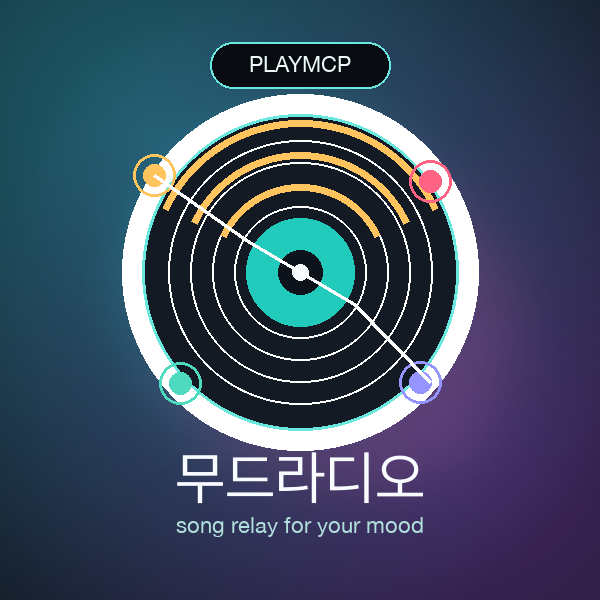
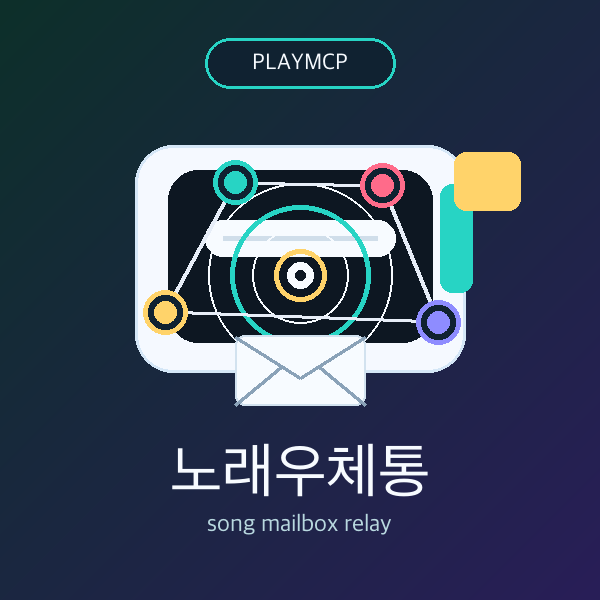
Enforce song mailbox relay flow

diff --git a/mood_radio_mcp/tools.py b/mood_radio_mcp/tools.py
@@ -43,7 +43,6 @@ def post_to_public_dict(post: SongPost) -> dict[str, object]:
         "post_id": post.id,
         "title": post.title,
         "artist": post.artist,
-        "mood": post.mood,
         "message": post.message,
         "from": post.nickname,
         "link": post.link,
@@ -152,8 +151,8 @@ class MoodRadioTools:
             "message": "노래우체통은 누군가의 노래와 문구를 받고, 내가 좋아하는 다른 노래와 문구를 다음 사람에게 추천하는 익명 릴레이입니다.",
             "examples": [
                 "노래 하나 받을래.",
-                "나도 다음 사람에게 노래 추천할래.",
-                "아이유 밤편지를 다음 사람에게 추천해줘.",
+                "나도 다음 사람에게 노래와 문구를 남길래.",
+                "아이유 밤편지를 다음 사람에게 추천해줘. 문구는 '오늘 밤 오래 들고 가도 좋은 노래'야.",
             ],
             "policy": {
                 "stores": "곡명, 아티스트, 한 줄 추천 문구, 선택 링크, 릴레이 기록",
@@ -317,24 +316,28 @@ class MoodRadioTools:
             avoid_seen=avoid_seen,
         )
         if delivery is None:
-            return {
+            response: dict[str, object] = {
                 "ok": False,
                 "message": "아직 받을 수 있는 노래가 없습니다.",
-                "available_moods": VALID_MOODS,
             }
-        return {
+            if mood or situation:
+                response["available_moods"] = VALID_MOODS
+            return response
+        response = {
             "ok": True,
             "delivery_id": delivery.delivery_id,
             "message": "누군가의 노래와 추천 문구가 도착했습니다. 마음에 남는 다른 노래와 문구로 다음 사람에게 답장해 주세요.",
             "next_step": "recommend_song 도구에 delivery_id, title, artist, message를 넣어 다음 사람에게 내 추천곡을 남기세요.",
-            "match": {
+            "song": post_to_public_dict(delivery.post),
+        }
+        if mood or situation:
+            response["match"] = {
                 "requested_mood": mood,
                 "situation": situation,
                 "matched_mood": normalized or "전체",
                 "matched_from": "mood" if mood else "situation" if inferred else "default",
-            },
-            "song": post_to_public_dict(delivery.post),
-        }
+            }
+        return response
 
     def react_song(
         self,
@@ -372,13 +375,15 @@ class MoodRadioTools:
         if period not in {"today", "all"}:
             raise ValueError("period must be either 'today' or 'all'.")
         posts = self.repository.chart(mood=mood, period=period, limit=limit)
-        return {
+        response: dict[str, object] = {
             "ok": True,
             "message": "노래우체통 인기 추천곡입니다.",
             "period": period,
-            "mood": normalize_mood(mood) if mood else None,
             "songs": [post_to_public_dict(post) for post in posts],
         }
+        if mood:
+            response["mood"] = normalize_mood(mood)
+        return response
 
     def get_song_chart(
         self,
@@ -411,7 +416,24 @@ class MoodRadioTools:
         }
 
     def get_relay_board(self, limit: int = 5) -> dict[str, object]:
-        return self.get_community_board(mood=None, limit=limit)
+        relay_items = self.repository.relay_board(mood=None, limit=limit)
+        return {
+            "ok": True,
+            "message": "노래우체통 릴레이 보드입니다.",
+            "relay_board": [
+                {
+                    "root_id": item["root_id"],
+                    "chain_length": item["chain_length"],
+                    "max_depth": item["max_depth"],
+                    "likes": item["like_count"],
+                    "saves": item["save_count"],
+                    "last_post_at": item["last_post_at"],
+                    "started_with": post_to_public_dict(item["root"]),
+                    "latest_song": post_to_public_dict(item["latest"]),
+                }
+                for item in relay_items
+            ],
+        }
 
     def get_relay_chain(
         self,

diff --git a/mood_radio_mcp/server.py b/mood_radio_mcp/server.py
@@ -14,7 +14,6 @@ from .tools import MoodRadioTools
 
 TOOL_NAMES = [
     "get_mailbox_info",
-    "post_song",
     "recommend_song",
     "get_song",
     "react_song",
@@ -70,30 +69,6 @@ def create_mcp(repository: MoodRadioRepository | None = None) -> FastMCP:
         노래우체통의 사용 흐름과 커뮤니티 정책을 확인합니다.
         """
         return tools.get_mailbox_info()
-
-    @mcp.tool()
-    def post_song(
-        title: str,
-        artist: str,
-        message: str,
-        link: str | None = None,
-        nickname: str = "익명",
-        actor_hint: str | None = None,
-    ) -> dict[str, object]:
-        """
-        새 릴레이를 시작할 추천곡과 짧은 문구를 노래우체통에 남깁니다.
-
-        actor_hint는 남용 방지를 위한 선택값이며 원문 대신 해시만 저장합니다.
-        가사나 음원 파일은 받지 않습니다. 곡명, 아티스트, 짧은 추천 문구만 저장합니다.
-        """
-        return tools.post_song(
-            title=title,
-            artist=artist,
-            message=message,
-            link=link,
-            nickname=nickname,
-            actor_hint=actor_hint,
-        )
 
     @mcp.tool()
     def recommend_song(

diff --git a/tests/test_mcp_server.py b/tests/test_mcp_server.py
@@ -21,7 +21,6 @@ def test_mcp_lists_expected_tools(tmp_path: Path) -> None:
         tool_names = {tool.name for tool in tools}
         assert tool_names == {
             "get_mailbox_info",
-            "post_song",
             "recommend_song",
             "get_song",
             "react_song",
@@ -59,17 +58,6 @@ def test_mcp_post_get_and_react_flow(tmp_path: Path) -> None:
     async def run() -> None:
         mcp = create_mcp(MoodRadioRepository(tmp_path / "mcp-flow.sqlite"))
         async with Client(mcp) as client:
-            post_result = await client.call_tool(
-                "post_song",
-                {
-                    "title": "기다린 만큼, 더",
-                    "artist": "검정치마",
-                    "message": "천천히 괜찮아져도 돼",
-                    "nickname": "밤손님",
-                },
-            )
-            post_id = post_result.data["post"]["post_id"]
-
             delivery_result = await client.call_tool(
                 "get_song",
                 {
@@ -78,6 +66,7 @@ def test_mcp_post_get_and_react_flow(tmp_path: Path) -> None:
             )
             assert delivery_result.data["ok"] is True
             assert delivery_result.data["song"]["message"]
+            assert "mood" not in delivery_result.data["song"]
 
             reaction_result = await client.call_tool(
                 "react_song",

diff --git a/tests/test_tools.py b/tests/test_tools.py
@@ -28,7 +28,8 @@ def test_post_and_get_song(tools: MoodRadioTools) -> None:
     delivery = tools.get_song(mood="새벽", listener_hint="tester")
 
     assert delivery["ok"] is True
-    assert delivery["song"]["mood"] == "새벽"
+    assert "mood" not in delivery["song"]
+    assert delivery["match"]["matched_mood"] == "새벽"
     assert delivery["song"]["post_id"] == post_id or delivery["song"]["title"]
 
 
@@ -73,8 +74,8 @@ def test_get_song_infers_mood_from_situation_when_mood_is_omitted(tools: MoodRad
     delivery = tools.get_song(situation="비 오는 퇴근길에 어울리는 노래", listener_hint="situation-only")
 
     assert delivery["ok"] is True
-    assert delivery["song"]["mood"] == "퇴근길"
     assert delivery["match"]["matched_from"] == "situation"
+    assert delivery["match"]["matched_mood"] == "퇴근길"
 
 
 def test_get_song_infers_mood_from_review_prompt_situation(tools: MoodRadioTools) -> None:
@@ -84,7 +85,6 @@ def test_get_song_infers_mood_from_review_prompt_situation(tools: MoodRadioTools
     )
 
     assert delivery["ok"] is True
-    assert delivery["song"]["mood"] == "퇴근길"
     assert delivery["match"]["matched_mood"] == "퇴근길"
 
 
@@ -92,8 +92,8 @@ def test_get_song_keeps_explicit_mood_over_situation(tools: MoodRadioTools) -> N
     delivery = tools.get_song(mood="위로", situation="퇴근길", listener_hint="explicit-mood")
 
     assert delivery["ok"] is True
-    assert delivery["song"]["mood"] == "위로"
     assert delivery["match"]["matched_from"] == "mood"
+    assert delivery["match"]["matched_mood"] == "위로"
 
 
 def test_react_song_updates_chart(tools: MoodRadioTools) -> None:

diff --git a/scripts/smoke_http.py b/scripts/smoke_http.py
@@ -22,7 +22,6 @@ async def smoke(endpoint: str) -> None:
             set(tool_names)
             >= {
                 "get_mailbox_info",
-                "post_song",
                 "recommend_song",
                 "get_song",
                 "react_song",
@@ -101,7 +100,7 @@ async def smoke(endpoint: str) -> None:
 
 
 def main() -> None:
-    parser = argparse.ArgumentParser(description="Smoke test a Mood Radio MCP HTTP endpoint.")
+    parser = argparse.ArgumentParser(description="Smoke test a Song Mailbox MCP HTTP endpoint.")
     parser.add_argument("endpoint", help="Streamable HTTP endpoint, e.g. https://example.com/mcp")
     args = parser.parse_args()
     asyncio.run(smoke(args.endpoint))

diff --git a/scripts/submission_audit.py b/scripts/submission_audit.py
@@ -20,7 +20,6 @@ from mood_radio_mcp.tools import MoodRadioTools  # noqa: E402
 
 EXPECTED_TOOLS = {
     "get_mailbox_info": set(),
-    "post_song": {"title", "artist", "message", "link", "nickname", "actor_hint"},
     "recommend_song": {"delivery_id", "title", "artist", "message", "link", "nickname", "actor_hint"},
     "get_song": {"listener_hint", "avoid_seen"},
     "react_song": {"reaction", "post_id", "delivery_id", "reply_message", "actor_hint"},
@@ -149,7 +148,7 @@ async def audit(root: Path) -> list[str]:
 
 
 def main() -> None:
-    parser = argparse.ArgumentParser(description="Audit Mood Radio MCP files and tool schema before PlayMCP submission.")
+    parser = argparse.ArgumentParser(description="Audit Song Mailbox MCP files and tool schema before PlayMCP submission.")
     parser.add_argument("--root", default=str(PROJECT_ROOT), help="Project root. Defaults to this repository.")
     args = parser.parse_args()
 

diff --git a/mood_radio_mcp/__init__.py b/mood_radio_mcp/__init__.py
@@ -1,4 +1,4 @@
-"""Mood Radio MCP package."""
+"""Song Mailbox MCP package."""
 
 __all__ = ["__version__"]
 

diff --git a/scripts/build_release_bundle.py b/scripts/build_release_bundle.py
@@ -129,7 +129,7 @@ def build_release_bundle(root: Path = PROJECT_ROOT, output_dir: Path | None = No
 
 
 def main() -> None:
-    parser = argparse.ArgumentParser(description="Build a Mood Radio MCP release tarball and checksum manifest.")
+    parser = argparse.ArgumentParser(description="Build a Song Mailbox MCP release tarball and checksum manifest.")
     parser.add_argument("--root", default=str(PROJECT_ROOT), help="Project root. Defaults to this repository.")
     parser.add_argument("--output-dir", default=None, help="Output directory. Defaults to <root>/dist.")
     args = parser.parse_args()

diff --git a/scripts/preflight_endpoint.py b/scripts/preflight_endpoint.py
@@ -80,7 +80,7 @@ async def preflight(endpoint: str, *, require_feed: bool) -> None:
 
 
 def main() -> None:
-    parser = argparse.ArgumentParser(description="Preflight a deployed Mood Radio MCP endpoint.")
+    parser = argparse.ArgumentParser(description="Preflight a deployed Song Mailbox MCP endpoint.")
     parser.add_argument("endpoint", help="Base URL, health URL, or MCP URL, e.g. https://example.com/mcp")
     parser.add_argument(
         "--allow-empty-feed",

diff --git a/scripts/reviewer_demo.py b/scripts/reviewer_demo.py
@@ -182,7 +182,7 @@ async def build_demo(endpoint: str | None = None, db_path: Path | None = None) -
 
 
 def main() -> None:
-    parser = argparse.ArgumentParser(description="Print a reviewer-friendly Mood Radio MCP demo transcript.")
+    parser = argparse.ArgumentParser(description="Print a reviewer-friendly Song Mailbox MCP demo transcript.")
     parser.add_argument("--endpoint", help="Optional Streamable HTTP endpoint, e.g. https://example.com/mcp")
     args = parser.parse_args()
     print(asyncio.run(build_demo(args.endpoint)), end="")

diff --git a/docs/playmcp-submission.md b/docs/playmcp-submission.md
@@ -12,11 +12,11 @@
 
 ### Short Description
 
-노래를 한 곡 받으면, 내가 좋아하는 다른 노래를 다음 사람에게 추천해 릴레이를 잇는 익명 음악 MCP입니다.
+노래를 한 곡 받으면, 내가 좋아하는 다른 노래와 짧은 문구를 다음 사람에게 추천해 릴레이를 잇는 익명 음악 MCP입니다.
 
 ### Long Description
 
-노래우체통은 AI가 임의로 노래를 추천하는 서버가 아니라, 사용자가 남긴 노래와 짧은 문구를 다음 사용자에게 배달하고, 노래를 받은 사용자가 자기가 좋아하는 다른 노래와 문구를 다음 사람에게 추천해 릴레이를 잇는 가벼운 커뮤니티 MCP입니다. 사용자는 노래 받기, 추천 이어가기, 공감/저장/스킵/신고 반응, 릴레이 기록 확인을 할 수 있습니다. 서버는 게시물, 배달 이력, 릴레이 체인, 반응, 신고 누적, 남용 방지용 해시 카운터를 저장하므로 시간이 지날수록 실제 사용자 취향과 분위기가 반영됩니다. 가사나 음원 파일은 저장하거나 반환하지 않으며, 곡명/아티스트/검색 링크만 제공합니다.
+노래우체통은 AI가 임의로 노래를 추천하는 서버가 아니라, 사용자가 남긴 노래와 짧은 문구를 다음 사용자에게 배달하고, 노래를 받은 사용자가 자기가 좋아하는 다른 노래와 문구를 다음 사람에게 추천해 릴레이를 잇는 가벼운 커뮤니티 MCP입니다. 사용자는 노래 받기, 추천 이어가기, 공감/저장/스킵/신고 반응, 릴레이 기록 확인을 할 수 있습니다. 서버는 게시물, 배달 이력, 릴레이 체인, 반응, 신고 누적, 남용 방지용 해시 카운터를 저장하므로 시간이 지날수록 실제 사용자 취향과 릴레이 흐름이 쌓입니다. 가사나 음원 파일은 저장하거나 반환하지 않으며, 곡명/아티스트/검색 링크만 제공합니다.
 
 ### Suggested Tags
 
@@ -25,8 +25,8 @@
 ## Review Prompts
 
 - 노래 하나 받을래.
-- 나도 다음 사람에게 노래 추천할래.
-- 아이유 밤편지를 다음 사람에게 추천해줘.
+- 나도 다음 사람에게 노래와 문구를 남길래.
+- 아이유 밤편지를 다음 사람에게 추천해줘. 문구는 '오늘 밤 오래 들고 가도 좋은 노래'야.
 - 방금 받은 노래에 공감 눌러줘.
 - 방금 받은 노래 저장해줘.
 - 방금 받은 노래 공유 카드 만들어줘.

diff --git a/README.md b/README.md
@@ -2,12 +2,11 @@
 
 노래를 한 곡 받으면, 내가 좋아하는 다른 노래와 짧은 문구를 다음 사람에게 추천해 릴레이를 잇는 익명 노래우체통 MCP입니다.
 
-이 서버는 AI가 임의로 노래를 추천하는 도구가 아니라, 사용자가 남긴 노래와 한 줄 메시지를 커뮤니티 피드와 릴레이 체인으로 저장하고 다시 배달합니다. 노래를 받은 사람은 자기가 좋아하는 다른 노래를 다음 사람에게 추천해 릴레이를 이어갑니다. 음원이나 가사는 제공하지 않고, 곡명/아티스트/검색 링크만 반환합니다.
+이 서버는 AI가 임의로 노래를 추천하는 도구가 아니라, 사용자가 남긴 노래와 한 줄 메시지를 커뮤니티 피드와 릴레이 체인으로 저장하고 다시 배달합니다. 노래를 받은 사람은 자기가 좋아하는 다른 노래와 짧은 문구를 다음 사람에게 추천해 릴레이를 이어갑니다. 음원이나 가사는 제공하지 않고, 곡명/아티스트/검색 링크만 반환합니다.
 
 ## Tools
 
 - `get_mailbox_info`: 노래우체통 사용 흐름과 커뮤니티 정책을 확인합니다.
-- `post_song`: 새 릴레이를 시작할 추천곡과 짧은 문구를 남깁니다.
 - `recommend_song`: 받은 노래의 `delivery_id`를 기준으로 내가 좋아하는 다른 노래와 문구를 다음 사람에게 추천합니다.
 - `get_song`: 이전 타자가 남긴 노래와 짧은 추천 문구를 하나 받습니다.
 - `react_song`: 받은 노래에 공감, 저장, 스킵 반응을 남깁니다. `post_id` 또는 `delivery_id`를 사용할 수 있습니다.
@@ -119,8 +118,8 @@ uv run --python 3.11 python scripts/preflight_endpoint.py http://127.0.0.1:8000
 ## Example Prompts
 
 - "노래 하나 받을래."
-- "나도 다음 사람에게 노래 추천할래."
-- "아이유 밤편지를 다음 사람에게 추천해줘."
+- "나도 다음 사람에게 노래와 문구를 남길래."
+- "아이유 밤편지를 다음 사람에게 추천해줘. 문구는 '오늘 밤 오래 들고 가도 좋은 노래'야."
 - "방금 받은 노래에 답장으로 aespa의 Supernova를 추천해줘. 문구는 '조금 더 힘내기'야."
 - "방금 받은 노래 저장해줘."
 - "방금 추천한 노래 공유 카드 만들어줘."